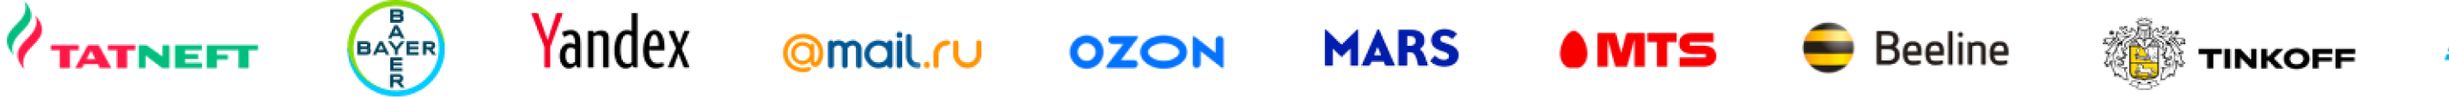
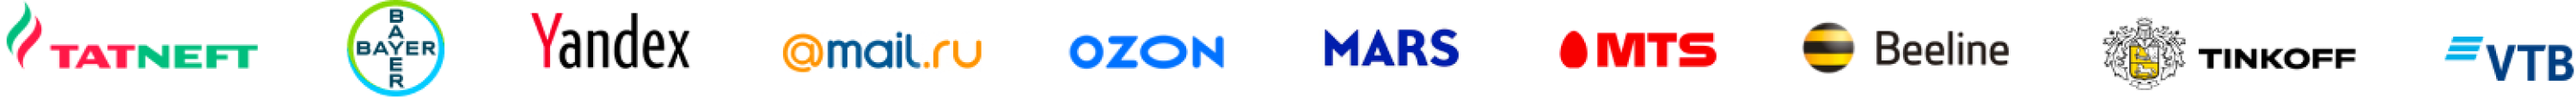
Improvements

Changed region(s): [[0.0, 0.0, 1.0, 1.0], [0.8744, 0.1842, 0.9056, 0.2105]]

diff --git a/src/components/Partners.vue b/src/components/Partners.vue
@@ -1,5 +1,4 @@
 <script setup>
-
 </script>
 <template>
   <div class="row mt-5 main-row">
@@ -12,16 +11,32 @@
     </div>
   </div>
   <div class="row">
-    <div class="col d-flex position-relative">
-      <div class="marquee">
-        <span>
-          <img src="../assets/clip/img.png" alt="#" height="100">
-        </span>
+    <div class="col p-0">
+      <!-- First Belt -->
+      <div class="brand-wheel">
+        <div class="brand-slide">
+          <div class="logo-div">
+            <img alt="#" src="../assets/clip/img.png" height="50">
+          </div>
+        </div>
+        <div class="brand-slide delay">
+          <div class="logo-div">
+            <img alt="#" src="../assets/clip/img.png" height="50">
+          </div>
+        </div>
       </div>
-      <div class="marquee marquee2">
-        <span>
-          <img src="../assets/clip/img.png" alt="#" height="100">
-        </span>
+      <!-- Second Belt -->
+      <div class="brand-wheel">
+        <div class="brand-slide">
+          <div class="logo-div">
+            <img alt="#" src="../assets/clip/img_1.png" height="50">
+          </div>
+        </div>
+        <div class="brand-slide delay">
+          <div class="logo-div">
+            <img alt="#" src="../assets/clip/img_1.png" height="50">
+          </div>
+        </div>
       </div>
     </div>
   </div>
@@ -33,6 +48,7 @@
 }
 
 .main-title {
+  margin: 96px 0 20px 0;
   font-size: 32px;
   font-weight: 800;
   line-height: 32px;
@@ -41,34 +57,95 @@
 
 .bg-index-drop {
   position: relative;
-  left: 53%;
+  left: 55%;
   z-index: 0;
-  margin-top: -50px;
+  margin-top: -80px;
 }
 
-.marquee {
-  margin: 0 auto;
-  white-space: nowrap;
-  overflow: hidden;
-  position: absolute;
-}
-
-.marquee span {
-  display: inline-block;
-  padding-left: 100%;
-  animation: marquee 15s linear infinite;
-}
-
-.marquee2 span {
-  animation-delay: 7.5s;
-}
-
-@keyframes marquee {
+@keyframes fade-in {
   0% {
-    transform: translate(0, 0);
+    opacity: 0;
   }
   100% {
-    transform: translate(-100%, 0);
+    opacity: 1;
+  }
+}
+
+.brand-wheel {
+  flex-direction: row;
+  align-items: center;
+  display: flex;
+  overflow: hidden;
+  position: relative;
+  height: 100px;
+  background-color: white;
+  --animationspeed: 45s;
+  --animationdelay: calc(var(--animationspeed) / 2);
+}
+
+.brand-wheel::before {
+  position: absolute;
+  background-image: linear-gradient(to right, rgba(255, 255, 255, 1) 0%, rgba(255, 255, 255, 0) 100%);
+  content: "";
+  height: 100%;
+  width: 5%;
+  z-index: 2;
+  pointer-events: none;
+}
+
+.brand-wheel::after {
+  position: absolute;
+  background-image: linear-gradient(to left, rgba(255, 255, 255, 1) 0%, rgba(255, 255, 255, 0) 100%);
+  content: "";
+  height: 100%;
+  width: 5%;
+  z-index: 2;
+  pointer-events: none;
+  right: 0;
+}
+
+.brand-slide {
+  flex-shrink: 0;
+  position: absolute;
+  animation-name: slidelogo;
+  animation-duration: var(--animationspeed);
+  animation-timing-function: linear;
+  animation-iteration-count: infinite;
+  min-width: 100%;
+  display: flex;
+  justify-content: space-around;
+}
+
+.brand-slide.delay {
+  transform: translateX(100%);
+  animation-name: slidelogo2;
+}
+
+.brand-wheel:hover .brand-slide {
+  animation-play-state: paused;
+}
+
+.logo-div {
+  display: inline-flex;
+  align-self: center;
+  animation: fade-in 0.5s cubic-bezier(0.455, 0.03, 0.515, 0.955) forwards;
+  padding: 0 20px 0 20px;
+}
+
+@keyframes slidelogo {
+  from {
+    transform: translateX(0%);
+  }
+  to {
+    transform: translateX(-100%);
+  }
+}
+@keyframes slidelogo2 {
+  from {
+    transform: translateX(100%);
+  }
+  to {
+    transform: translateX(0%);
   }
 }
 </style>

diff --git a/src/components/Footer.vue b/src/components/Footer.vue
@@ -1,0 +1,13 @@
+<template>
+
+</template>
+
+<script>
+export default {
+  name: "Footer"
+}
+</script>
+
+<style scoped>
+
+</style>
